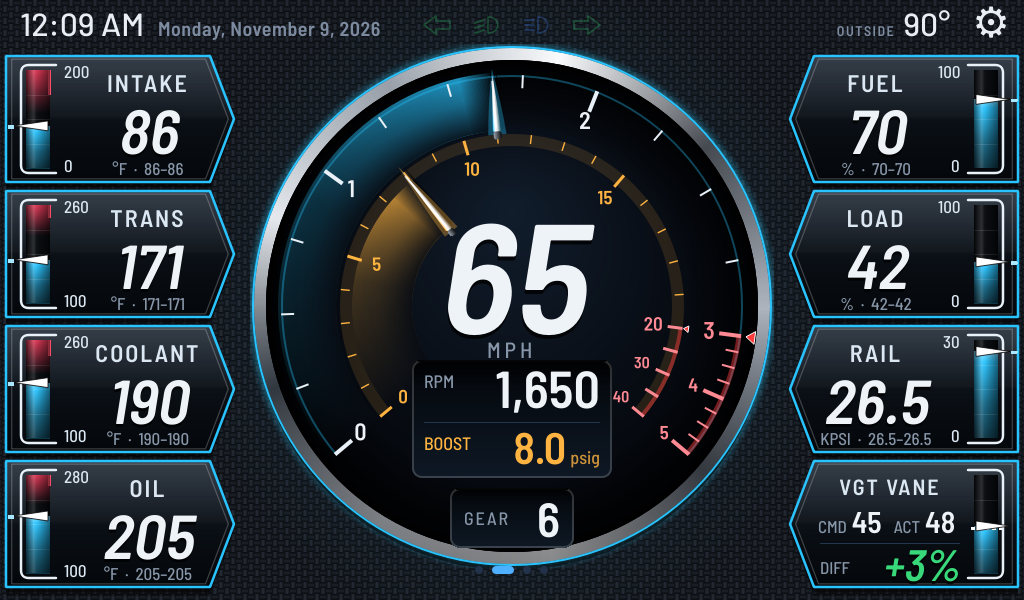
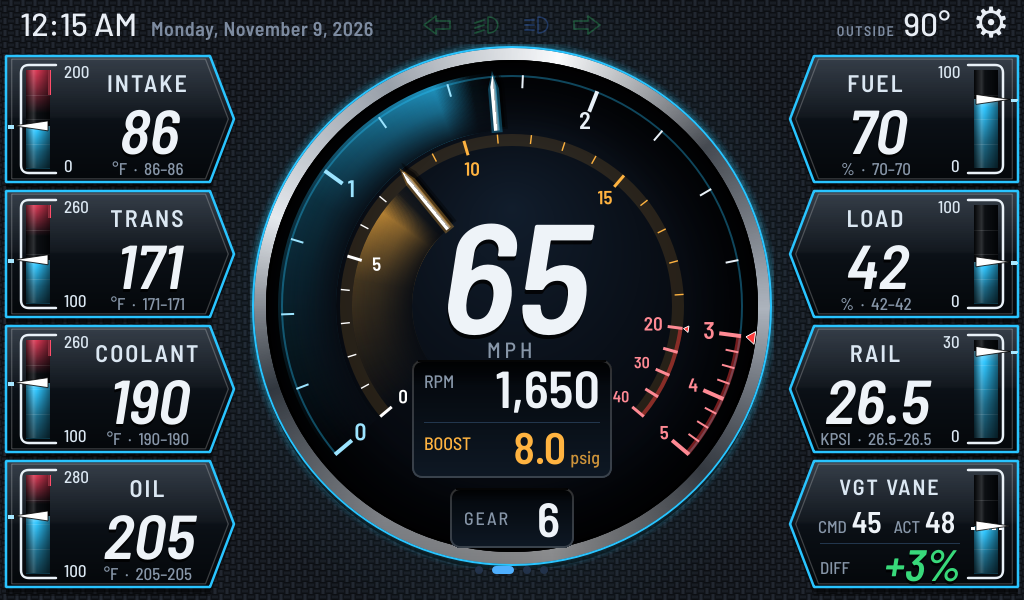
Towing page: S2 scale (passed marks change color) with N3 blade needles as the default
Claude-Session: https://claude.ai/code/session_01NB1fkpFcGY28RY4JZ8NWPC

diff --git a/gaugeworks/qml/TowGauge.qml b/gaugeworks/qml/TowGauge.qml
@@ -20,7 +20,7 @@ Item {
     property color acc2: "#ffb340"
     property bool blinkOn: true
     property int pointerStyle: 2   // 0 cone, 1 bar, 2 blade (JP's pick), 3 line + arrowhead, 4 laser line, 5 rim wedge
-    property int scaleStyle: 0     // 0 static, 1 lit as passed, 2 color as passed, 3 contrast as passed, 4 focus number
+    property int scaleStyle: 2     // JP's pick. 0 static, 1 lit as passed, 2 color as passed, 3 contrast as passed, 4 focus number
     signal held(string slot)
     width: 524; height: 524
 

diff --git a/docs/decisions.md b/docs/decisions.md
@@ -272,3 +272,7 @@ its own skin.
   Colors (two accents from a hue-ring picker; red, amber and green stay fixed).
 - No new Qt modules: shadows and glow are drawn, not effects, and static art is
   painted once with Canvas.
+- Look picked on 2026-11-09: blade needles (N3) with a drop shadow and a dark gap
+  in the trail just behind them; scale marks the needle has passed change color
+  (S2: light accent on RPM, white on boost); white side-panel pointers pointing
+  out toward the screen edge; bigger RPM/boost digits.
